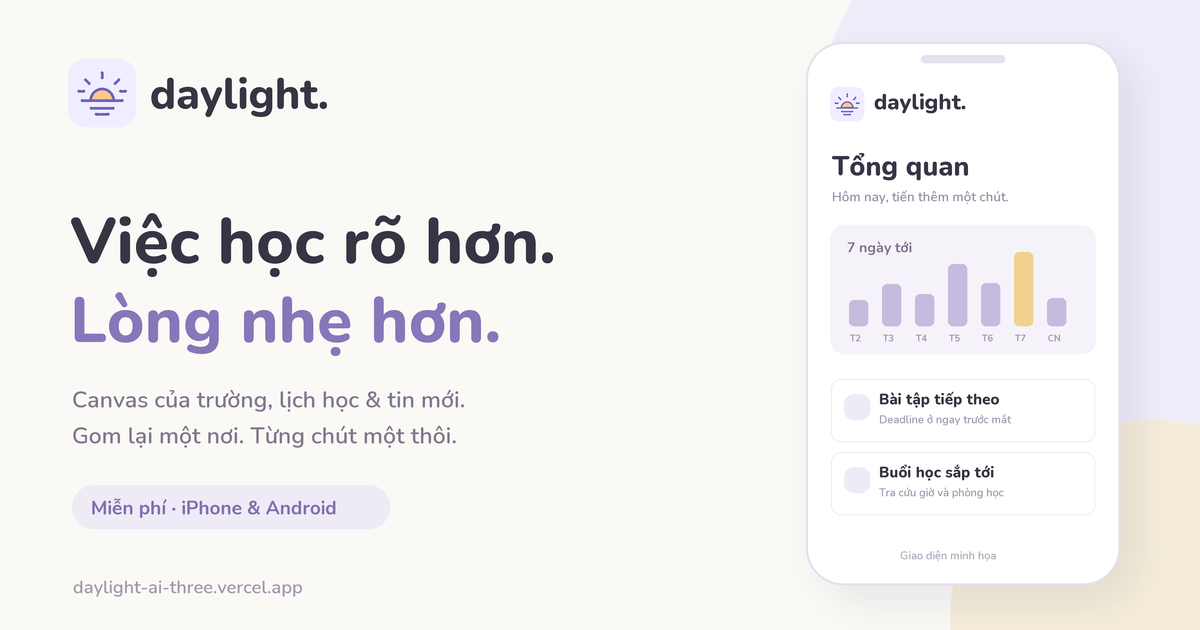
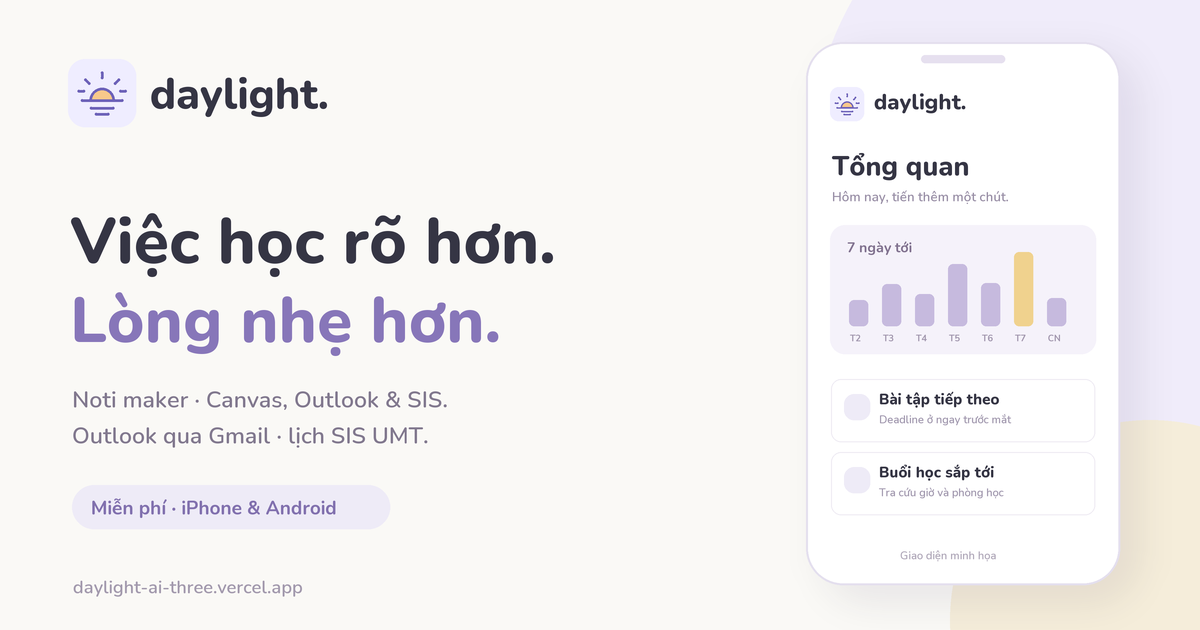
Position Daylight as a study notification maker and refresh public sitemap

Changed region(s): [[0.0617, 0.6032, 0.4008, 0.7238]]

diff --git a/src/PublicPages.tsx b/src/PublicPages.tsx
@@ -7,10 +7,10 @@ export function PublicPage({legal}:{legal?:'privacy'|'terms'}) {
     <h2>Lưu trữ và thông báo</h2><p>Ứng dụng dùng Vercel, Neon và dịch vụ đẩy của trình duyệt/điện thoại. Nội dung nhắc có thể hiện trên màn hình khóa. Không dùng dữ liệu học tập để huấn luyện AI hay bán dữ liệu. Phiên bản này chưa có tính năng AI tạo sinh.</p>
     <h2>Kiểm soát</h2><p>Bạn có thể ngắt kết nối, thu hồi cầu nối, xóa mục đã nhập và xóa toàn bộ dữ liệu Daylight trong Cài đặt. Việc này không xóa dữ liệu gốc ở Canvas, Google hoặc SIS. Tài khoản đăng nhập được giữ để bạn có thể dùng lại. Không đưa token, mật khẩu hoặc dữ liệu riêng vào báo lỗi công khai.</p>
   </>:<><h2>Dùng nhẹ nhàng, dùng đúng quyền</h2><p>Daylight là công cụ hỗ trợ học tập miễn phí đang thử nghiệm. Chỉ kết nối tài khoản và dữ liệu bạn được phép sử dụng. Bạn tự kiểm tra ngày giờ, quyền nguồn và trạng thái cập nhật trước các hạn quan trọng.</p><h2>Phạm vi hiện tại</h2><p>Canvas LMS, cầu nối Gmail, lịch nhập và Web Push. Quyền trường, giới hạn dịch vụ miễn phí, mạng và cài đặt điện thoại có thể ảnh hưởng đồng bộ/thông báo. Không cam kết giao thông báo đúng từng giây hay thay thế hệ thống chính thức của trường.</p><h2>Bản dùng thử</h2><p>Tính năng và giới hạn có thể thay đổi. Chưa có không gian nhóm, thanh toán hoặc AI tạo sinh. Mã nguồn và nơi góp ý ở GitHub.</p></>}<a href="https://github.com/anny-syx07/daylight-ai/issues" target="_blank" rel="noopener noreferrer">Góp ý trên GitHub ↗</a></main>:<main>
-    <section className="public-hero"><div className="hero-copy"><span className="beta-pill">Miễn phí · bản dùng thử</span><h1>Việc học rõ hơn.<br/><em>Lòng nhẹ hơn.</em></h1><p>Gom deadline, lịch học và tin mới về một góc nhỏ. Mỗi người một tài khoản, một nhịp học riêng.</p><div className="hero-actions"><a className="primary" href="/app?signup">Bắt đầu miễn phí<ArrowUpRight size={18}/></a><a className="text-button" href="#how">Xem cách dùng ↓</a></div><small>Canvas LMS · Gmail · iPhone & Android</small></div>
+    <section className="public-hero"><div className="hero-copy"><span className="beta-pill">Miễn phí · bản dùng thử</span><p className="eyebrow" style={{marginTop:18}}>NOTI MAKER CHO VIỆC HỌC</p><h1>Việc học rõ hơn.<br/><em>Lòng nhẹ hơn.</em></h1><p>Tạo noti từ Canvas, thư Outlook qua Gmail và lịch SIS UMT. Gom deadline, buổi học và tin mới về một góc nhỏ.</p><div className="hero-actions"><a className="primary" href="/app?signup">Bắt đầu miễn phí<ArrowUpRight size={18}/></a><a className="text-button" href="#how">Xem cách dùng ↓</a></div><small>Canvas nhiều trường · iPhone & Android</small></div>
     <div className="hero-preview" aria-label="Minh họa giao diện, không phải dữ liệu học thật"><div className="preview-top"><span>☀ Một ngày vừa đủ</span><span className="badge">Minh họa</span></div><h2>Từng chút một thôi.</h2><div className="preview-chart" aria-hidden="true">{[32,58,45,82,55,100,39].map((h,i)=><div key={i}><i style={{height:h}}/><small>{['T2','T3','T4','T5','T6','T7','CN'][i]}</small></div>)}</div><div className="preview-task"><span className="preview-check"><Check size={16}/></span><div><strong>Bài tập tiếp theo</strong><small>Deadline và trạng thái ở cùng một nơi</small></div><span>↗</span></div><div className="preview-task"><CalendarDays size={22}/><div><strong>Buổi học sắp tới</strong><small>Tra cứu ngày, giờ và phòng học</small></div></div></div></section>
-    <section className="public-features">{[[BookOpen,'Biết việc nào trước','Bài tập, kiểm tra và biểu đồ từ dữ liệu bạn kết nối.'],[CalendarDays,'Nhìn lịch rõ ràng','Deadline và buổi học chung một lịch. Nguồn cần nhập lại được đánh dấu.'],[Bell,'Có người nhắc nhẹ','Nhắc hạn và tin mới khi đóng app sau khi bật cầu nối nền và thông báo.']].map(([Icon,title,body])=>{const I=Icon as typeof Bell;return <article key={String(title)}><I size={23}/><h2>{String(title)}</h2><p>{String(body)}</p></article>;})}</section>
-    <section className="public-how" id="how"><p className="eyebrow">BẮT ĐẦU TỪ MỘT VIỆC NHỎ</p><h2>Góc học tập của bạn, trong ba bước.</h2><ol><li><b>Tạo tài khoản</b><span>Xác minh email để mở không gian riêng.</span></li><li><b>Kết nối nguồn</b><span>Canvas LMS, cầu nối Gmail hoặc nhập tệp lịch.</span></li><li><b>Cài lên điện thoại</b><span>Bật nhắc nền, cho phép thông báo và thử tiếng chuông.</span></li></ol><a className="primary" href="/app?signup">Tạo góc nhỏ của mình<ArrowUpRight size={18}/></a><a href="/huong-dan">Hướng dẫn từng bước ↗</a></section>
+    <section className="public-features">{[[BookOpen,'Canvas LMS','Nhắc deadline, bài tập, quiz và tin mới. Nhập link Canvas của trường bạn.'],[CalendarDays,'Thư Outlook qua Gmail','Nhận noti từ thư trường được chuyển tiếp và gắn nhãn Daylight. Outlook trực tiếp chưa bật.'],[Bell,'Thời khóa biểu SIS UMT','Nhắc trước buổi học, xem giờ và phòng. Nhập lịch hoặc cập nhật qua cầu nối Chrome máy tính.']].map(([Icon,title,body])=>{const I=Icon as typeof Bell;return <article key={String(title)}><I size={23}/><h2>{String(title)}</h2><p>{String(body)}</p></article>;})}</section>
+    <section className="public-how" id="how"><p className="eyebrow">BẮT ĐẦU TỪ MỘT VIỆC NHỎ</p><h2>Góc học tập của bạn, trong ba bước.</h2><ol><li><b>Tạo tài khoản</b><span>Xác minh email để mở không gian riêng.</span></li><li><b>Kết nối nguồn</b><span>Canvas của trường, thư Outlook qua Gmail hoặc lịch SIS UMT.</span></li><li><b>Cài lên điện thoại</b><span>Bật nhắc nền, cho phép thông báo và thử tiếng chuông.</span></li></ol><a className="primary" href="/app?signup">Tạo góc nhỏ của mình<ArrowUpRight size={18}/></a><a href="/huong-dan">Hướng dẫn từng bước ↗</a></section>
   </main>}
   <footer className="public-footer"><span>daylight ✳ a little clarity, every day.</span><div><a href="/quyen-rieng-tu">Quyền riêng tư</a><a href="/dieu-khoan">Điều khoản</a><a href="https://github.com/anny-syx07/daylight-ai" target="_blank" rel="noopener noreferrer">GitHub ↗</a></div></footer></div>;
 }

diff --git a/index.html b/index.html
@@ -2,14 +2,14 @@
 <html lang="vi" prefix="og: https://ogp.me/ns#"><head>
 <meta charset="UTF-8"/>
 <meta name="viewport" content="width=device-width, initial-scale=1.0"/>
-<title>Daylight · Deadline Canvas, lịch học và nhắc việc sinh viên</title>
-<meta name="description" content="Gom deadline Canvas của trường, lịch học và email vào một góc học tập riêng. Bản dùng thử miễn phí, hỗ trợ nhắc nền trên iPhone và Android."/>
+<title>Daylight · Noti maker cho Canvas, Outlook &amp; SIS</title>
+<meta name="description" content="Daylight tạo noti từ Canvas, thư Outlook qua Gmail và lịch SIS UMT. Gom deadline, buổi học, tin mới; hỗ trợ nhắc nền trên iPhone và Android."/>
 <link rel="canonical" href="https://daylight-ai-three.vercel.app/"/>
 <meta property="og:type" content="website"/>
 <meta property="og:site_name" content="Daylight"/>
 <meta property="og:url" content="https://daylight-ai-three.vercel.app/"/>
 <meta property="og:title" content="Daylight · Việc học rõ hơn, lòng nhẹ hơn."/>
-<meta property="og:description" content="Gom deadline Canvas của trường, lịch học và email vào một góc học tập riêng. Bản dùng thử miễn phí cho iPhone và Android."/>
+<meta property="og:description" content="Daylight tạo noti từ Canvas, thư Outlook qua Gmail và lịch SIS UMT. Gom deadline, buổi học, tin mới; hỗ trợ nhắc nền trên iPhone và Android."/>
 <meta property="og:image" content="https://daylight-ai-three.vercel.app/og-image.png"/>
 <meta property="og:image:secure_url" content="https://daylight-ai-three.vercel.app/og-image.png"/>
 <meta property="og:image:type" content="image/png"/>
@@ -19,7 +19,7 @@
 <meta property="og:locale" content="vi_VN"/>
 <meta name="twitter:card" content="summary_large_image"/>
 <meta name="twitter:title" content="Daylight · Việc học rõ hơn, lòng nhẹ hơn."/>
-<meta name="twitter:description" content="Gom deadline Canvas của trường, lịch học và email vào một góc học tập riêng."/>
+<meta name="twitter:description" content="Daylight tạo noti từ Canvas, thư Outlook qua Gmail và lịch SIS UMT. Gom deadline, buổi học, tin mới; hỗ trợ nhắc nền trên iPhone và Android."/>
 <meta name="twitter:image" content="https://daylight-ai-three.vercel.app/og-image.png"/>
 <meta name="twitter:image:alt" content="Daylight · Việc học rõ hơn, lòng nhẹ hơn."/>
 <meta name="apple-mobile-web-app-capable" content="yes"/>

diff --git a/scripts/render-public.tsx b/scripts/render-public.tsx
@@ -9,7 +9,7 @@ try{
   const {PublicPage}=await vite.ssrLoadModule('/src/PublicPages.tsx');
   const {ConnectionHelpPage}=await vite.ssrLoadModule('/src/ConnectionHelp.tsx');
   const pages=[
-    {path:'/',title:'Daylight · Deadline Canvas, lịch học và nhắc việc sinh viên',description:'Gom deadline Canvas của trường, lịch học và email vào một góc học tập riêng. Bản dùng thử miễn phí, hỗ trợ nhắc nền trên iPhone và Android.',element:<PublicPage/>},
+    {path:'/',title:'Daylight · Noti maker cho Canvas, Outlook & SIS',description:'Daylight tạo noti từ Canvas, thư Outlook qua Gmail và lịch SIS UMT. Gom deadline, buổi học, tin mới; hỗ trợ nhắc nền trên iPhone và Android.',element:<PublicPage/>},
     {path:'/huong-dan',title:'Hướng dẫn kết nối Canvas, Gmail và cài Daylight',description:'Nhập địa chỉ Canvas của trường, tạo token, kết nối Gmail và cài nhắc nền trên iPhone, Android. Làm từng bước cùng Daylight.',element:<ConnectionHelpPage/>},
     {path:'/quyen-rieng-tu',title:'Quyền riêng tư · Daylight',description:'Dữ liệu Daylight lưu, cách tách tài khoản, mã hóa token, cầu nối email và cách kiểm soát dữ liệu học tập của bạn.',element:<PublicPage legal="privacy"/>},
     {path:'/dieu-khoan',title:'Điều khoản sử dụng · Daylight',description:'Phạm vi bản dùng thử Daylight, quyền kết nối nguồn học tập và giới hạn đồng bộ, nhắc việc trên điện thoại.',element:<PublicPage legal="terms"/>},

diff --git a/scripts/generate-social-assets.py b/scripts/generate-social-assets.py
@@ -37,8 +37,8 @@ d.ellipse((950*S,420*S,1350*S,820*S),fill='#f5edda')
 logo(im,68,59,68); text(150,65,'daylight.',43,weight=800)
 text(70,198,'Việc học rõ hơn.',64,weight=800)
 text(70,277,'Lòng nhẹ hơn.',64,color='#8776b9',weight=800)
-text(72,384,'Canvas của trường, lịch học & tin mới.',23,color='#81788e',weight=600)
-text(72,420,'Gom lại một nơi. Từng chút một thôi.',23,color='#81788e',weight=600)
+text(72,384,'Noti maker · Canvas, Outlook & SIS.',23,color='#81788e',weight=600)
+text(72,420,'Outlook qua Gmail · lịch SIS UMT.',23,color='#81788e',weight=600)
 rect((72,485,390,529),'#eeebf7',22);text(91,495,'Miễn phí · iPhone & Android',19,color='#8170ae')
 text(73,575,'daylight-ai-three.vercel.app',18,color='#a299ad',weight=600)
 

diff --git a/README.md b/README.md
@@ -1,6 +1,6 @@
 # Daylight AI ☀
 
-A calm personal study PWA: Canvas LMS, Gmail bridge, deadlines and reminders.
+A calm study notification maker: Canvas LMS, school Outlook through a Gmail bridge, SIS UMT class schedules, deadlines and mobile reminders.
 
 [**☀ Mở Daylight AI online**](https://daylight-ai-three.vercel.app) · Vercel Hobby + Neon Free.
 
